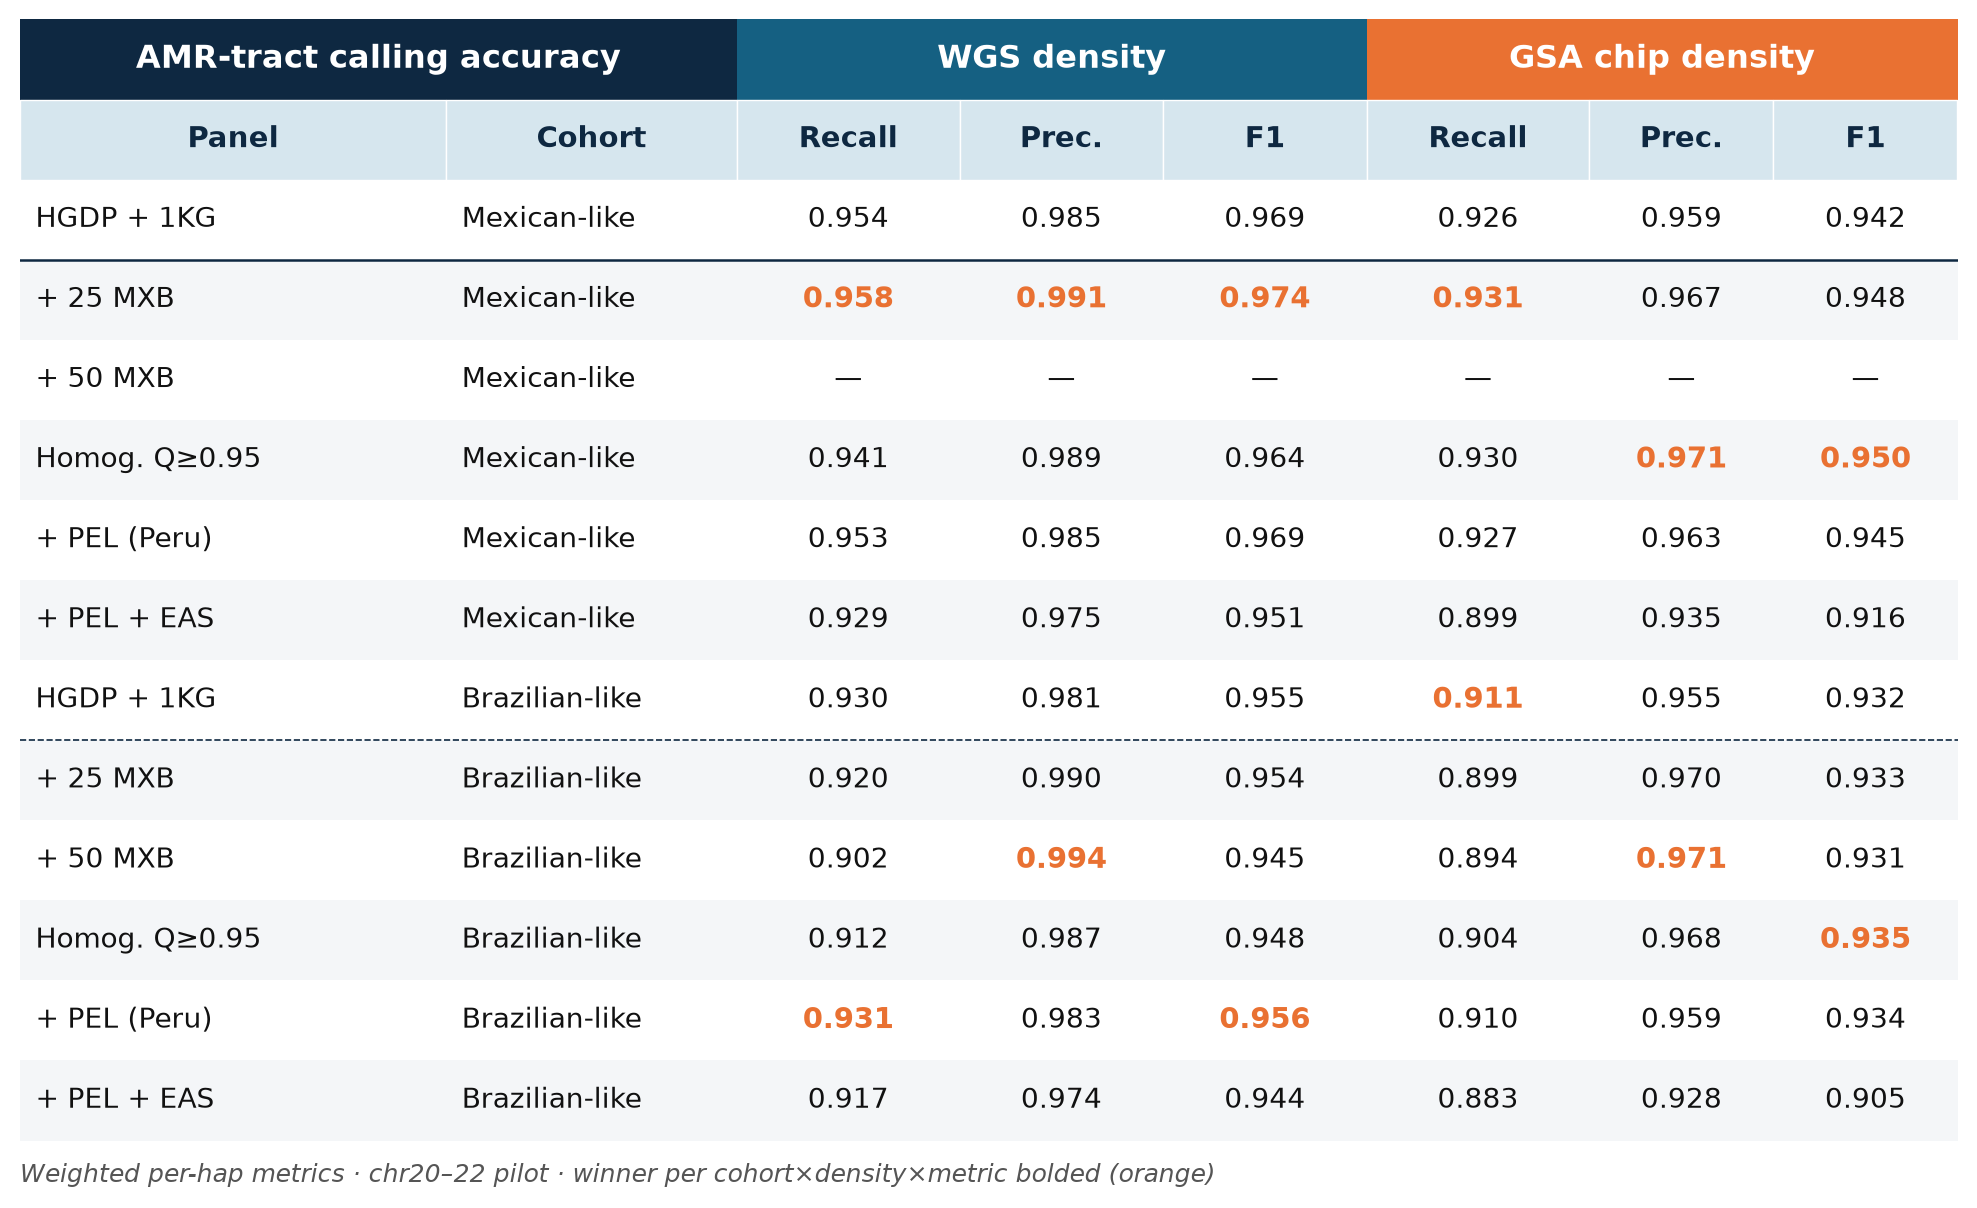
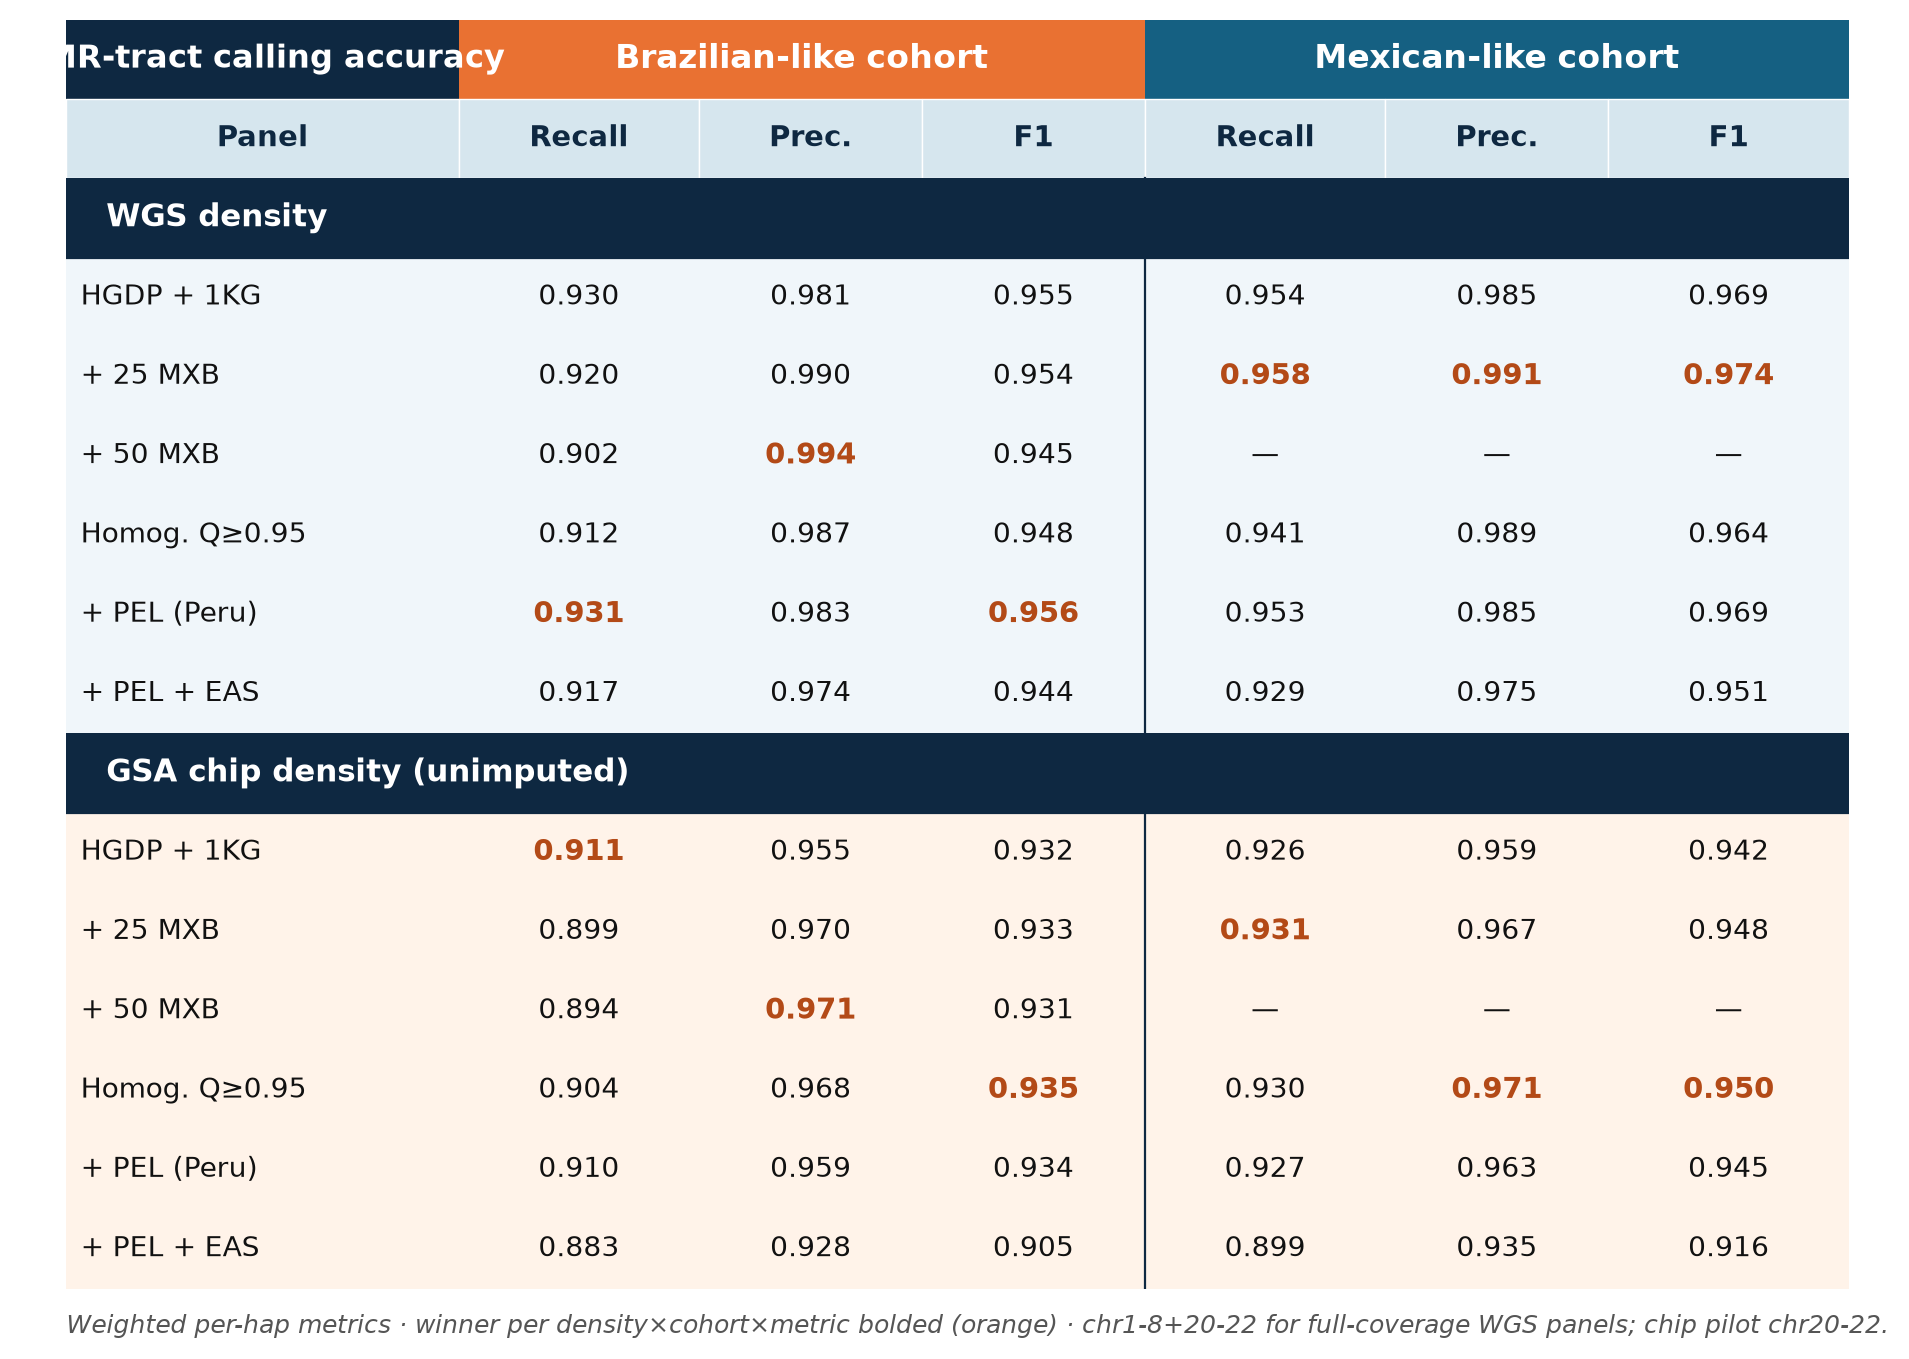
slides/tables: restructure AMR table — cohorts as colored headers, densities as rows
- Top banners: Brazilian-like (orange) | Mexican-like (teal)
- Row bands stacked vertically: WGS band (blue-tint bg) then
  GSA chip band (cream bg) with dark navy separator strips
- Vertical rule between cohorts so the "Brasa vs Mex" comparison
  reads down-column
- Winner per (density × cohort × metric) bolded in deep orange

Rationale: chip and WGS numbers are close in absolute value —
grouping by cohort makes the panel-choice story more legible.

Claude-Session: https://claude.ai/code/session_01Fbouf9yKVWMvU7uqqi6hid

diff --git a/slides/make_metrics_table.py b/slides/make_metrics_table.py
@@ -107,122 +107,181 @@ def write_amr_tsv(rows):
 # ---------------------------------------------------------------- rendered PNG
 def render_amr_png(rows):
     """
-    Publication-style table. Rows grouped by cohort, then panel.
-    Winning cell in each cohort×density×metric column is bolded.
+    Publication-style table.
+
+    Layout:
+      Columns:   Panel | Brazilian-like (Recall, Prec., F1) | Mexican-like (Recall, Prec., F1)
+      Row-band 1: WGS density   — 6 panel rows
+      Row-band 2: GSA chip      — 5-6 panel rows (missing panels shown as —)
+
+    Winners bolded per (density band × cohort × metric).
     """
     NAVY   = "#0E2841"
-    TEAL   = "#156082"
-    ORANGE = "#E97132"
-    ROW_A  = "#FFFFFF"
-    ROW_B  = "#F4F6F8"
+    TEAL   = "#156082"    # Mexican-like
+    ORANGE = "#E97132"    # Brazilian-like
+    BAND_W = "#F0F6FA"    # WGS band background
+    BAND_C = "#FFF3E9"    # chip band background
     HDR_BG = "#D6E6EE"
+    BOLD_C = "#B34A17"    # deep orange for winner cells
 
-    # sort: cohort first, then panel order
-    cohort_order = ["Mexican-like", "Brazilian-like"]
-    rows_sorted = []
-    for coh in cohort_order:
-        for panel_key, panel_lbl in PANEL_ORDER:
-            for r in rows:
-                if r["cohort"] == coh and r["panel"] == panel_lbl:
-                    rows_sorted.append(r); break
+    # regroup rows -> {(density, panel_label, cohort): (recall, prec, f1)}
+    def cell(row, density, metric):
+        return row.get(f"{density}_{metric}")
 
-    # winners per (cohort × density × metric)
+    # winners per (density × cohort × metric)
     winners = {}
-    for coh in cohort_order:
-        subset = [r for r in rows_sorted if r["cohort"] == coh]
-        for density in ("WGS", "chip"):
+    for density in ("WGS", "chip"):
+        for cohort in ("Brazilian-like", "Mexican-like"):
+            subset = [r for r in rows if r["cohort"] == cohort]
             for metric in ("recall", "precision", "f1"):
-                key = f"{density}_{metric}"
-                vals = [r[key] for r in subset if r[key] is not None]
+                vals = [cell(r, density, metric) for r in subset
+                        if cell(r, density, metric) is not None]
                 if vals:
-                    winners[(coh, key)] = max(vals)
+                    winners[(density, cohort, metric)] = max(vals)
 
-    # header layout: 2 rows of headers
-    #   [ Panel | Cohort | WGS(recall|prec|F1) | Chip(recall|prec|F1) ]
-    col_headers_row2 = ["Panel", "Cohort",
-                        "Recall", "Prec.", "F1",
-                        "Recall", "Prec.", "F1"]
-    n_cols = len(col_headers_row2)
-    n_rows = len(rows_sorted) + 2  # 2 header rows
+    # rows per density band: one row per panel, with 6 metric cols (Brasa | Mex)
+    def band_rows(density):
+        out = []
+        for panel_key, panel_lbl in PANEL_ORDER:
+            brasa = next((r for r in rows
+                          if r["cohort"] == "Brazilian-like"
+                          and r["panel"] == panel_lbl), None)
+            mex   = next((r for r in rows
+                          if r["cohort"] == "Mexican-like"
+                          and r["panel"] == panel_lbl), None)
+            out.append({
+                "panel": panel_lbl,
+                "brasa_recall":    (cell(brasa, density, "recall")    if brasa else None),
+                "brasa_precision": (cell(brasa, density, "precision") if brasa else None),
+                "brasa_f1":        (cell(brasa, density, "f1")        if brasa else None),
+                "mex_recall":      (cell(mex,   density, "recall")    if mex   else None),
+                "mex_precision":   (cell(mex,   density, "precision") if mex   else None),
+                "mex_f1":          (cell(mex,   density, "f1")        if mex   else None),
+            })
+        return out
 
-    fig, ax = plt.subplots(figsize=(12.5, 0.42 * n_rows + 1.4), dpi=200)
-    ax.set_xlim(0, 1); ax.set_ylim(0, 1); ax.axis("off")
+    wgs_rows  = band_rows("WGS")
+    chip_rows = band_rows("chip")
 
-    # column widths (relative, must sum to 1)
-    col_w = [0.22, 0.15,  0.115, 0.105, 0.105,  0.115, 0.095, 0.095]
+    # only keep panels that have at least one non-None value in the band
+    def prune(band): return [r for r in band if any(
+        r[k] is not None for k in
+        ("brasa_recall","brasa_precision","brasa_f1","mex_recall","mex_precision","mex_f1"))]
+    wgs_rows, chip_rows = prune(wgs_rows), prune(chip_rows)
+
+    col_headers = ["Panel",
+                   "Recall", "Prec.", "F1",
+                   "Recall", "Prec.", "F1"]
+    n_cols = 7
+    # column widths (must sum to 1)
+    col_w = [0.22,  0.135, 0.125, 0.125,  0.135, 0.125, 0.135]
     assert abs(sum(col_w) - 1.0) < 1e-6, f"col_w sums to {sum(col_w)}"
     col_x = [sum(col_w[:i]) for i in range(n_cols + 1)]
 
-    row_h = 1.0 / n_rows
-    # y from top -> row index 0 at top
+    # layout: header row 1 (cohort banners), header row 2 (col names),
+    # WGS band label, WGS rows, chip band label, chip rows
+    n_rows = 2 + 1 + len(wgs_rows) + 1 + len(chip_rows)
+    row_h  = 1.0 / n_rows
     def row_y(i): return 1.0 - (i + 1) * row_h
 
-    # header row 1 (density banner across cols 2-4 and 5-7)
-    ax.add_patch(plt.Rectangle((0, row_y(0)), col_x[2], row_h,
-                               facecolor=NAVY, edgecolor="none"))
-    ax.text((0 + col_x[2]) / 2, row_y(0) + row_h/2, "AMR-tract calling accuracy",
-            ha="center", va="center", color="white", fontsize=11.5, fontweight="bold")
-    ax.add_patch(plt.Rectangle((col_x[2], row_y(0)), col_x[5] - col_x[2], row_h,
-                               facecolor=TEAL, edgecolor="none"))
-    ax.text((col_x[2] + col_x[5]) / 2, row_y(0) + row_h/2, "WGS density",
-            ha="center", va="center", color="white", fontsize=11.5, fontweight="bold")
-    ax.add_patch(plt.Rectangle((col_x[5], row_y(0)), col_x[8] - col_x[5], row_h,
-                               facecolor=ORANGE, edgecolor="none"))
-    ax.text((col_x[5] + col_x[8]) / 2, row_y(0) + row_h/2, "GSA chip density",
-            ha="center", va="center", color="white", fontsize=11.5, fontweight="bold")
+    fig, ax = plt.subplots(figsize=(11.5, 0.44 * n_rows + 1.2), dpi=200)
+    ax.set_xlim(0, 1); ax.set_ylim(0, 1); ax.axis("off")
 
-    # header row 2 (per-column labels)
+    # -------- header row 1: cohort banners
+    ax.add_patch(plt.Rectangle((0, row_y(0)), col_x[1], row_h,
+                               facecolor=NAVY, edgecolor="none"))
+    ax.text(col_x[1]/2, row_y(0) + row_h/2, "AMR-tract calling accuracy",
+            ha="center", va="center", color="white",
+            fontsize=11.5, fontweight="bold")
+    # Brasa banner
+    ax.add_patch(plt.Rectangle((col_x[1], row_y(0)), col_x[4] - col_x[1], row_h,
+                               facecolor=ORANGE, edgecolor="none"))
+    ax.text((col_x[1] + col_x[4])/2, row_y(0) + row_h/2, "Brazilian-like cohort",
+            ha="center", va="center", color="white",
+            fontsize=12, fontweight="bold")
+    # Mexican banner
+    ax.add_patch(plt.Rectangle((col_x[4], row_y(0)), col_x[7] - col_x[4], row_h,
+                               facecolor=TEAL, edgecolor="none"))
+    ax.text((col_x[4] + col_x[7])/2, row_y(0) + row_h/2, "Mexican-like cohort",
+            ha="center", va="center", color="white",
+            fontsize=12, fontweight="bold")
+
+    # -------- header row 2: metric names
     for c in range(n_cols):
         ax.add_patch(plt.Rectangle((col_x[c], row_y(1)), col_w[c], row_h,
                                    facecolor=HDR_BG, edgecolor="white", linewidth=0.5))
-        ax.text(col_x[c] + col_w[c]/2, row_y(1) + row_h/2, col_headers_row2[c],
-                ha="center", va="center", fontsize=10.5, fontweight="bold", color=NAVY)
+        ax.text(col_x[c] + col_w[c]/2, row_y(1) + row_h/2, col_headers[c],
+                ha="center", va="center",
+                fontsize=10.5, fontweight="bold", color=NAVY)
 
-    # data rows
-    for i, r in enumerate(rows_sorted):
-        y = row_y(i + 2)
-        # zebra
-        stripe = ROW_A if i % 2 == 0 else ROW_B
+    # -------- helper to draw one data-row
+    def draw_row(i, band_label, r, band_bg):
+        y = row_y(i)
         ax.add_patch(plt.Rectangle((0, y), 1.0, row_h,
-                                   facecolor=stripe, edgecolor="none"))
-        # cohort banner change
+                                   facecolor=band_bg, edgecolor="none"))
         text_cells = [
             r["panel"],
-            r["cohort"],
-            _fmt(r["WGS_recall"]),  _fmt(r["WGS_precision"]),  _fmt(r["WGS_f1"]),
-            _fmt(r["chip_recall"]), _fmt(r["chip_precision"]), _fmt(r["chip_f1"]),
+            _fmt(r["brasa_recall"]),  _fmt(r["brasa_precision"]),  _fmt(r["brasa_f1"]),
+            _fmt(r["mex_recall"]),    _fmt(r["mex_precision"]),    _fmt(r["mex_f1"]),
         ]
-        cell_keys = [None, None,
-                     "WGS_recall", "WGS_precision", "WGS_f1",
-                     "chip_recall", "chip_precision", "chip_f1"]
+        cell_keys = [None,
+                     ("brasa_recall","Brazilian-like","recall"),
+                     ("brasa_precision","Brazilian-like","precision"),
+                     ("brasa_f1","Brazilian-like","f1"),
+                     ("mex_recall","Mexican-like","recall"),
+                     ("mex_precision","Mexican-like","precision"),
+                     ("mex_f1","Mexican-like","f1")]
         for c in range(n_cols):
             val = text_cells[c]
             key = cell_keys[c]
-            bold = False
-            color = "#111"
+            bold = False; color = "#111"
             if key is not None:
-                wkey = (r["cohort"], key)
-                if wkey in winners and r[key] == winners[wkey]:
-                    bold = True; color = ORANGE
-            ha = "left" if c == 0 else ("center" if c > 1 else "left")
-            xpad = 0.008
-            xtext = (col_x[c] + xpad) if ha == "left" else (col_x[c] + col_w[c]/2)
+                col_key, cohort, metric = key
+                v = r[col_key]
+                w = winners.get((band_label, cohort, metric))
+                if v is not None and w is not None and v == w:
+                    bold = True; color = BOLD_C
+            ha = "left" if c == 0 else "center"
+            xtext = (col_x[c] + 0.008) if ha == "left" else (col_x[c] + col_w[c]/2)
             ax.text(xtext, y + row_h/2, val,
                     ha=ha, va="center",
-                    fontsize=10 if not bold else 10.5,
+                    fontsize=10.5 if bold else 10,
                     fontweight=("bold" if bold else "normal"),
                     color=color)
 
-    # thin dividers between cohorts + columns
-    ax.plot([0, 1], [row_y(2), row_y(2)], color=NAVY, lw=0.9)  # under header row 2
-    # cohort divider
-    cutoff_i = sum(1 for r in rows_sorted if r["cohort"] == cohort_order[0])
-    y_cut = row_y(cutoff_i + 2)
-    ax.plot([0, 1], [y_cut, y_cut], color=NAVY, lw=0.6, linestyle="--")
+    # -------- WGS band label row
+    y = row_y(2)
+    ax.add_patch(plt.Rectangle((0, y), 1.0, row_h,
+                               facecolor=NAVY, edgecolor="none"))
+    ax.text(0.01, y + row_h/2, "  WGS density",
+            ha="left", va="center", color="white",
+            fontsize=11, fontweight="bold")
 
-    # footer note
+    for i, r in enumerate(wgs_rows):
+        draw_row(3 + i, "WGS", r, BAND_W)
+
+    # -------- Chip band label row
+    chip_hdr_i = 3 + len(wgs_rows)
+    y = row_y(chip_hdr_i)
+    ax.add_patch(plt.Rectangle((0, y), 1.0, row_h,
+                               facecolor=NAVY, edgecolor="none"))
+    ax.text(0.01, y + row_h/2, "  GSA chip density (unimputed)",
+            ha="left", va="center", color="white",
+            fontsize=11, fontweight="bold")
+
+    for i, r in enumerate(chip_rows):
+        draw_row(chip_hdr_i + 1 + i, "chip", r, BAND_C)
+
+    # dividers
+    ax.plot([0, 1], [row_y(2), row_y(2)], color=NAVY, lw=0.8)
+    ax.plot([0, 1], [row_y(chip_hdr_i), row_y(chip_hdr_i)], color=NAVY, lw=0.8)
+    # column vertical rule between cohorts
+    ax.plot([col_x[4], col_x[4]], [row_y(1), 0], color=NAVY, lw=0.8)
+
+    # footer
     ax.text(0, -0.02,
-            "Weighted per-hap metrics · chr20–22 pilot · winner per cohort×density×metric bolded (orange)",
+            "Weighted per-hap metrics · winner per density×cohort×metric bolded (orange) · "
+            "chr1-8+20-22 for full-coverage WGS panels; chip pilot chr20-22.",
             transform=ax.transAxes, ha="left", va="top",
             fontsize=9, color="#555", style="italic")
 
